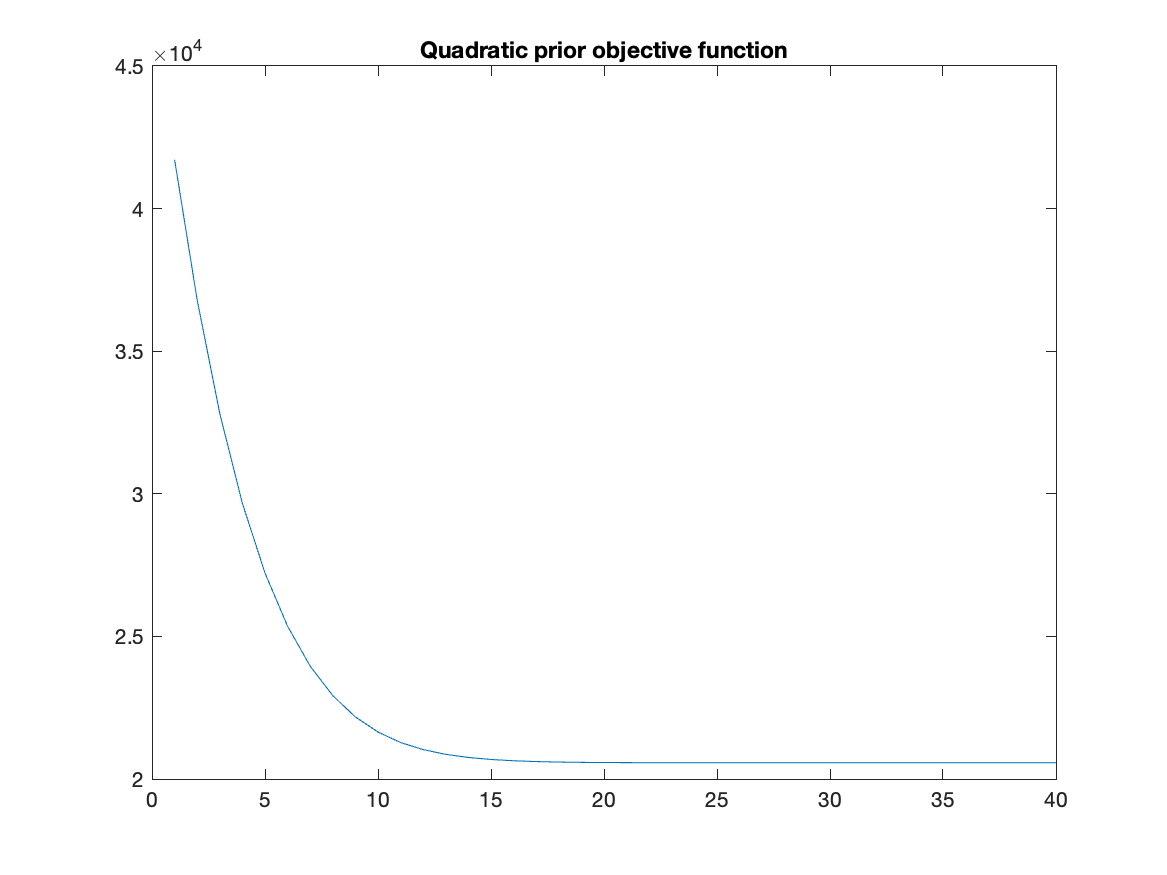
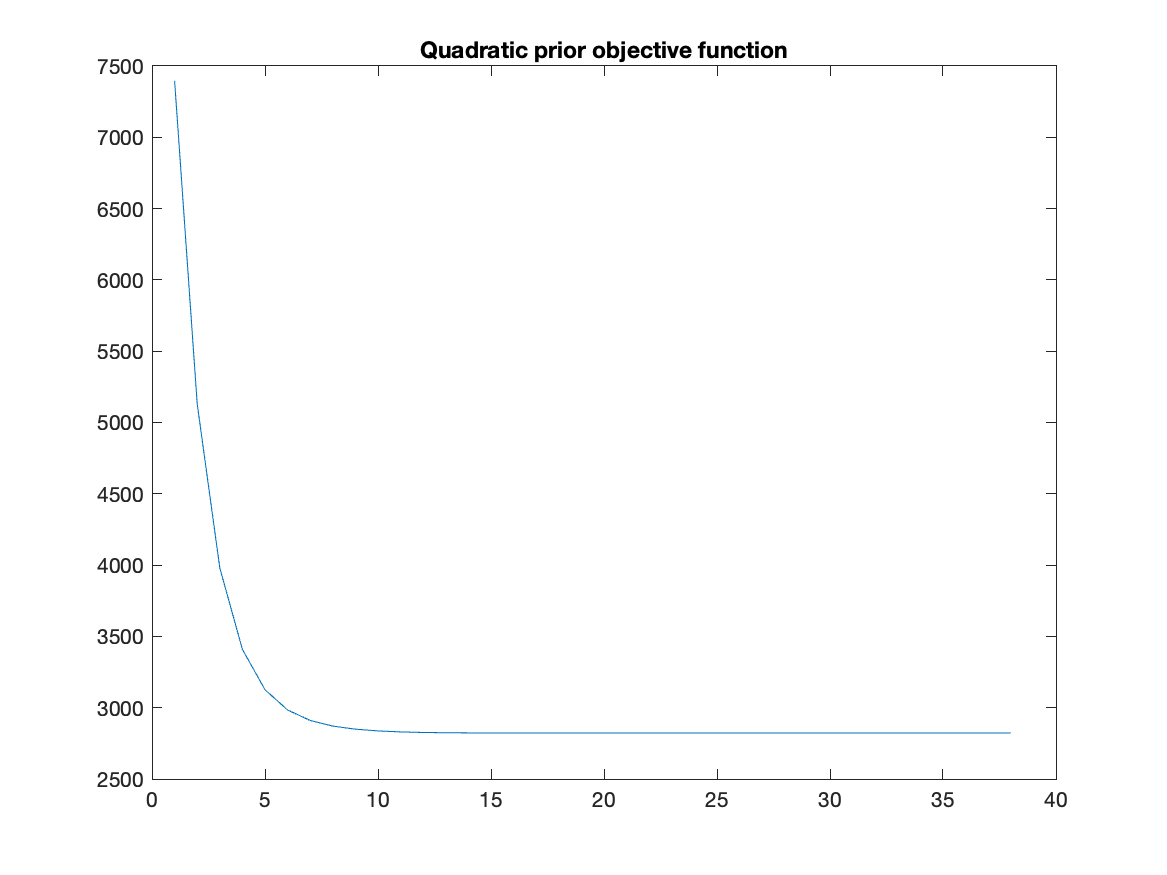
minor change

diff --git a/src/q3/q3.m b/src/q3/q3.m
@@ -18,9 +18,9 @@ err_init = RRMSE(noisy, noiseless);
 
 % Initialize
 X_in = noisy;                       
-alpha = 0.24*1.2;               
+alpha = 0.23;               
 gamma = 0.01;                      
-prior_type = 'B';             
+prior_type = 'A';             
 step_size = 0.1;
 
 err_1 = RRMSE(X_in, noisy);
@@ -29,7 +29,7 @@ X_in = gradient_descent(alpha, gamma, step_size, prior_type, X_in, noisy, noisel
 
 figure();
 imshow(abs(X_in));
-saveas(gcf, '../../results/q3/B/B_denoised.png');
+saveas(gcf, '../../results/q3/A/A_denoised.png');
 
 err = RRMSE(X_in, noiseless);
 err_2 = RRMSE(X_in, noisy);
